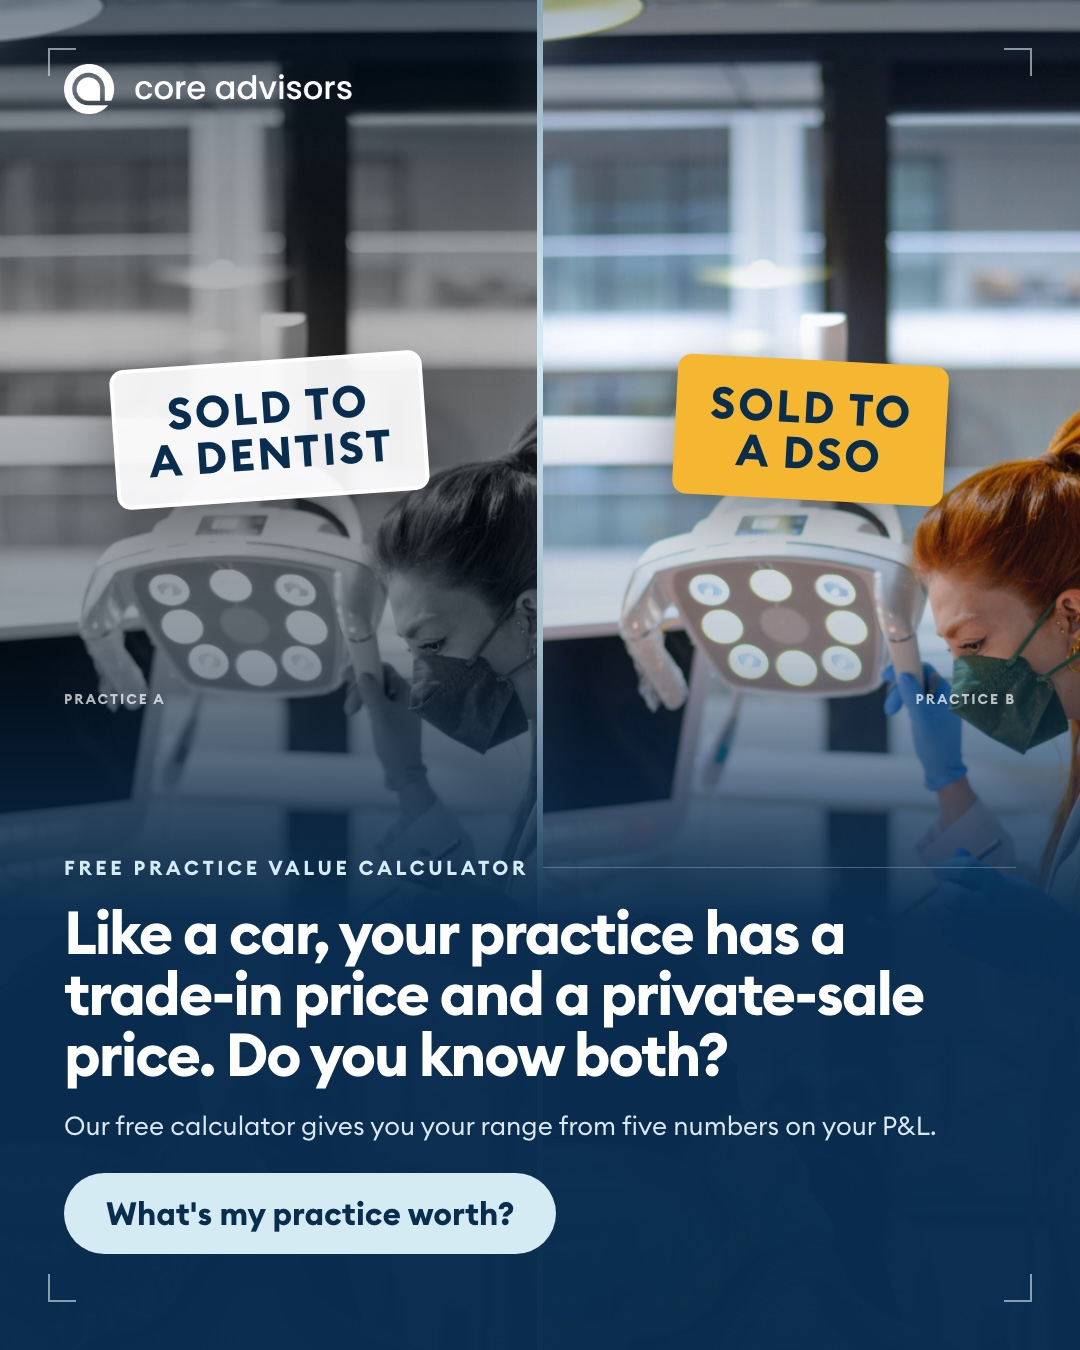
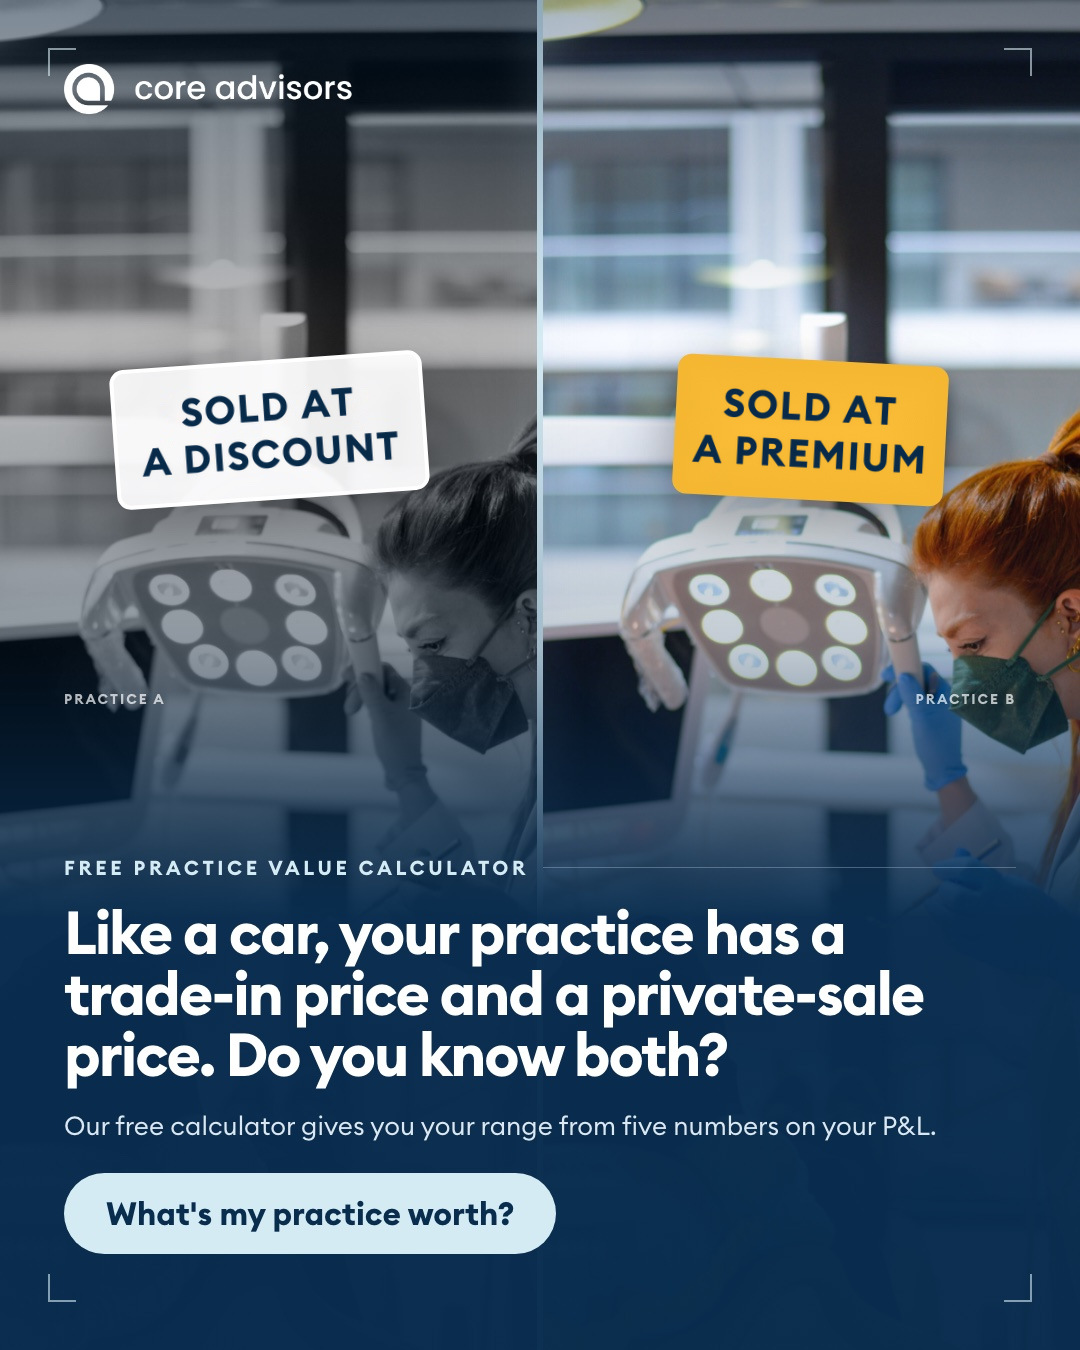
Core Advisors exit ads: Jeremiah's edits, $2 million ad removed (#77)

Changed region(s): [[0.1222, 0.28, 0.3667, 0.3733], [0.6417, 0.28, 0.8556, 0.3733]]

diff --git a/core-advisors/meta-exit-planning-ads/index.html b/core-advisors/meta-exit-planning-ads/index.html
@@ -92,16 +92,6 @@ body{background:var(--fbbg);color:var(--ink);font-family:-apple-system,BlinkMacS
 <div class="reacts"><span><em class="r1"></em><em class="r2"></em> 24</span><span>3 comments · 2 shares</span></div>
 <div class="acts"><span>👍 Like</span><span>💬 Comment</span><span>↗ Share</span></div>
 </article>
-<div class="post filler" aria-hidden="true"><div class="ph"><span class="fav"></span><span><i style="width:138px"></i><i style="width:60px"></i></span></div>
-<div class="lines"><i style="width:88%"></i><i style="width:68%"></i></div><div class="fimg f1"></div><div class="bar"></div></div>
-<article class="post ad" id="v1">
-<div class="ph"><span class="av"><img src="img/logo-white.png" alt=""></span><span class="who"><b>Core Advisors</b><small>Sponsored · <svg viewBox="0 0 16 16" width="11" height="11"><circle cx="8" cy="8" r="6.5" fill="none" stroke="currentColor" stroke-width="1.4"/><path d="M1.5 8h13M8 1.5c2 2 2 11 0 13M8 1.5c-2 2-2 11 0 13" fill="none" stroke="currentColor" stroke-width="1.2"/></svg></small></span><span class="dots">···</span></div>
-<p class="primary"><span class="short">Our free Practice Value Calculator shows what your dental practice is worth today, based on the profit it keeps. ... <button class="more" type="button">See more</button></span><span class="full">Our free Practice Value Calculator shows what your dental practice is worth today, based on the profit it keeps.<br><br>Two practices can each collect $2 million a year and still sell for very different prices, because a buyer prices a practice on its profit.<br><br>The calculator uses five numbers from your P&amp;L to give you a value range, from a sale to another dentist up to a sale to an outside buyer. It also shows what the same practice could be worth at a higher margin.<br><br>👉 Tap Learn more to try it with your numbers. It takes about two minutes.</span></p>
-<img class="creative" src="img/V1-of-every-100-1080x1350.jpg" alt="V1 ad creative" loading="lazy">
-<div class="link"><div><small>COREADVISORS.COM</small><b>How much of every $100 do you keep?</b></div><span class="btn">Learn more</span></div>
-<div class="reacts"><span><em class="r1"></em><em class="r2"></em> 24</span><span>3 comments · 2 shares</span></div>
-<div class="acts"><span>👍 Like</span><span>💬 Comment</span><span>↗ Share</span></div>
-</article>
 <div class="post filler" aria-hidden="true"><div class="ph"><span class="fav"></span><span><i style="width:145px"></i><i style="width:60px"></i></span></div>
 <div class="lines"><i style="width:64%"></i><i style="width:44%"></i></div><div class="fimg f2"></div><div class="bar"></div></div>
 <article class="post ad" id="v2">
